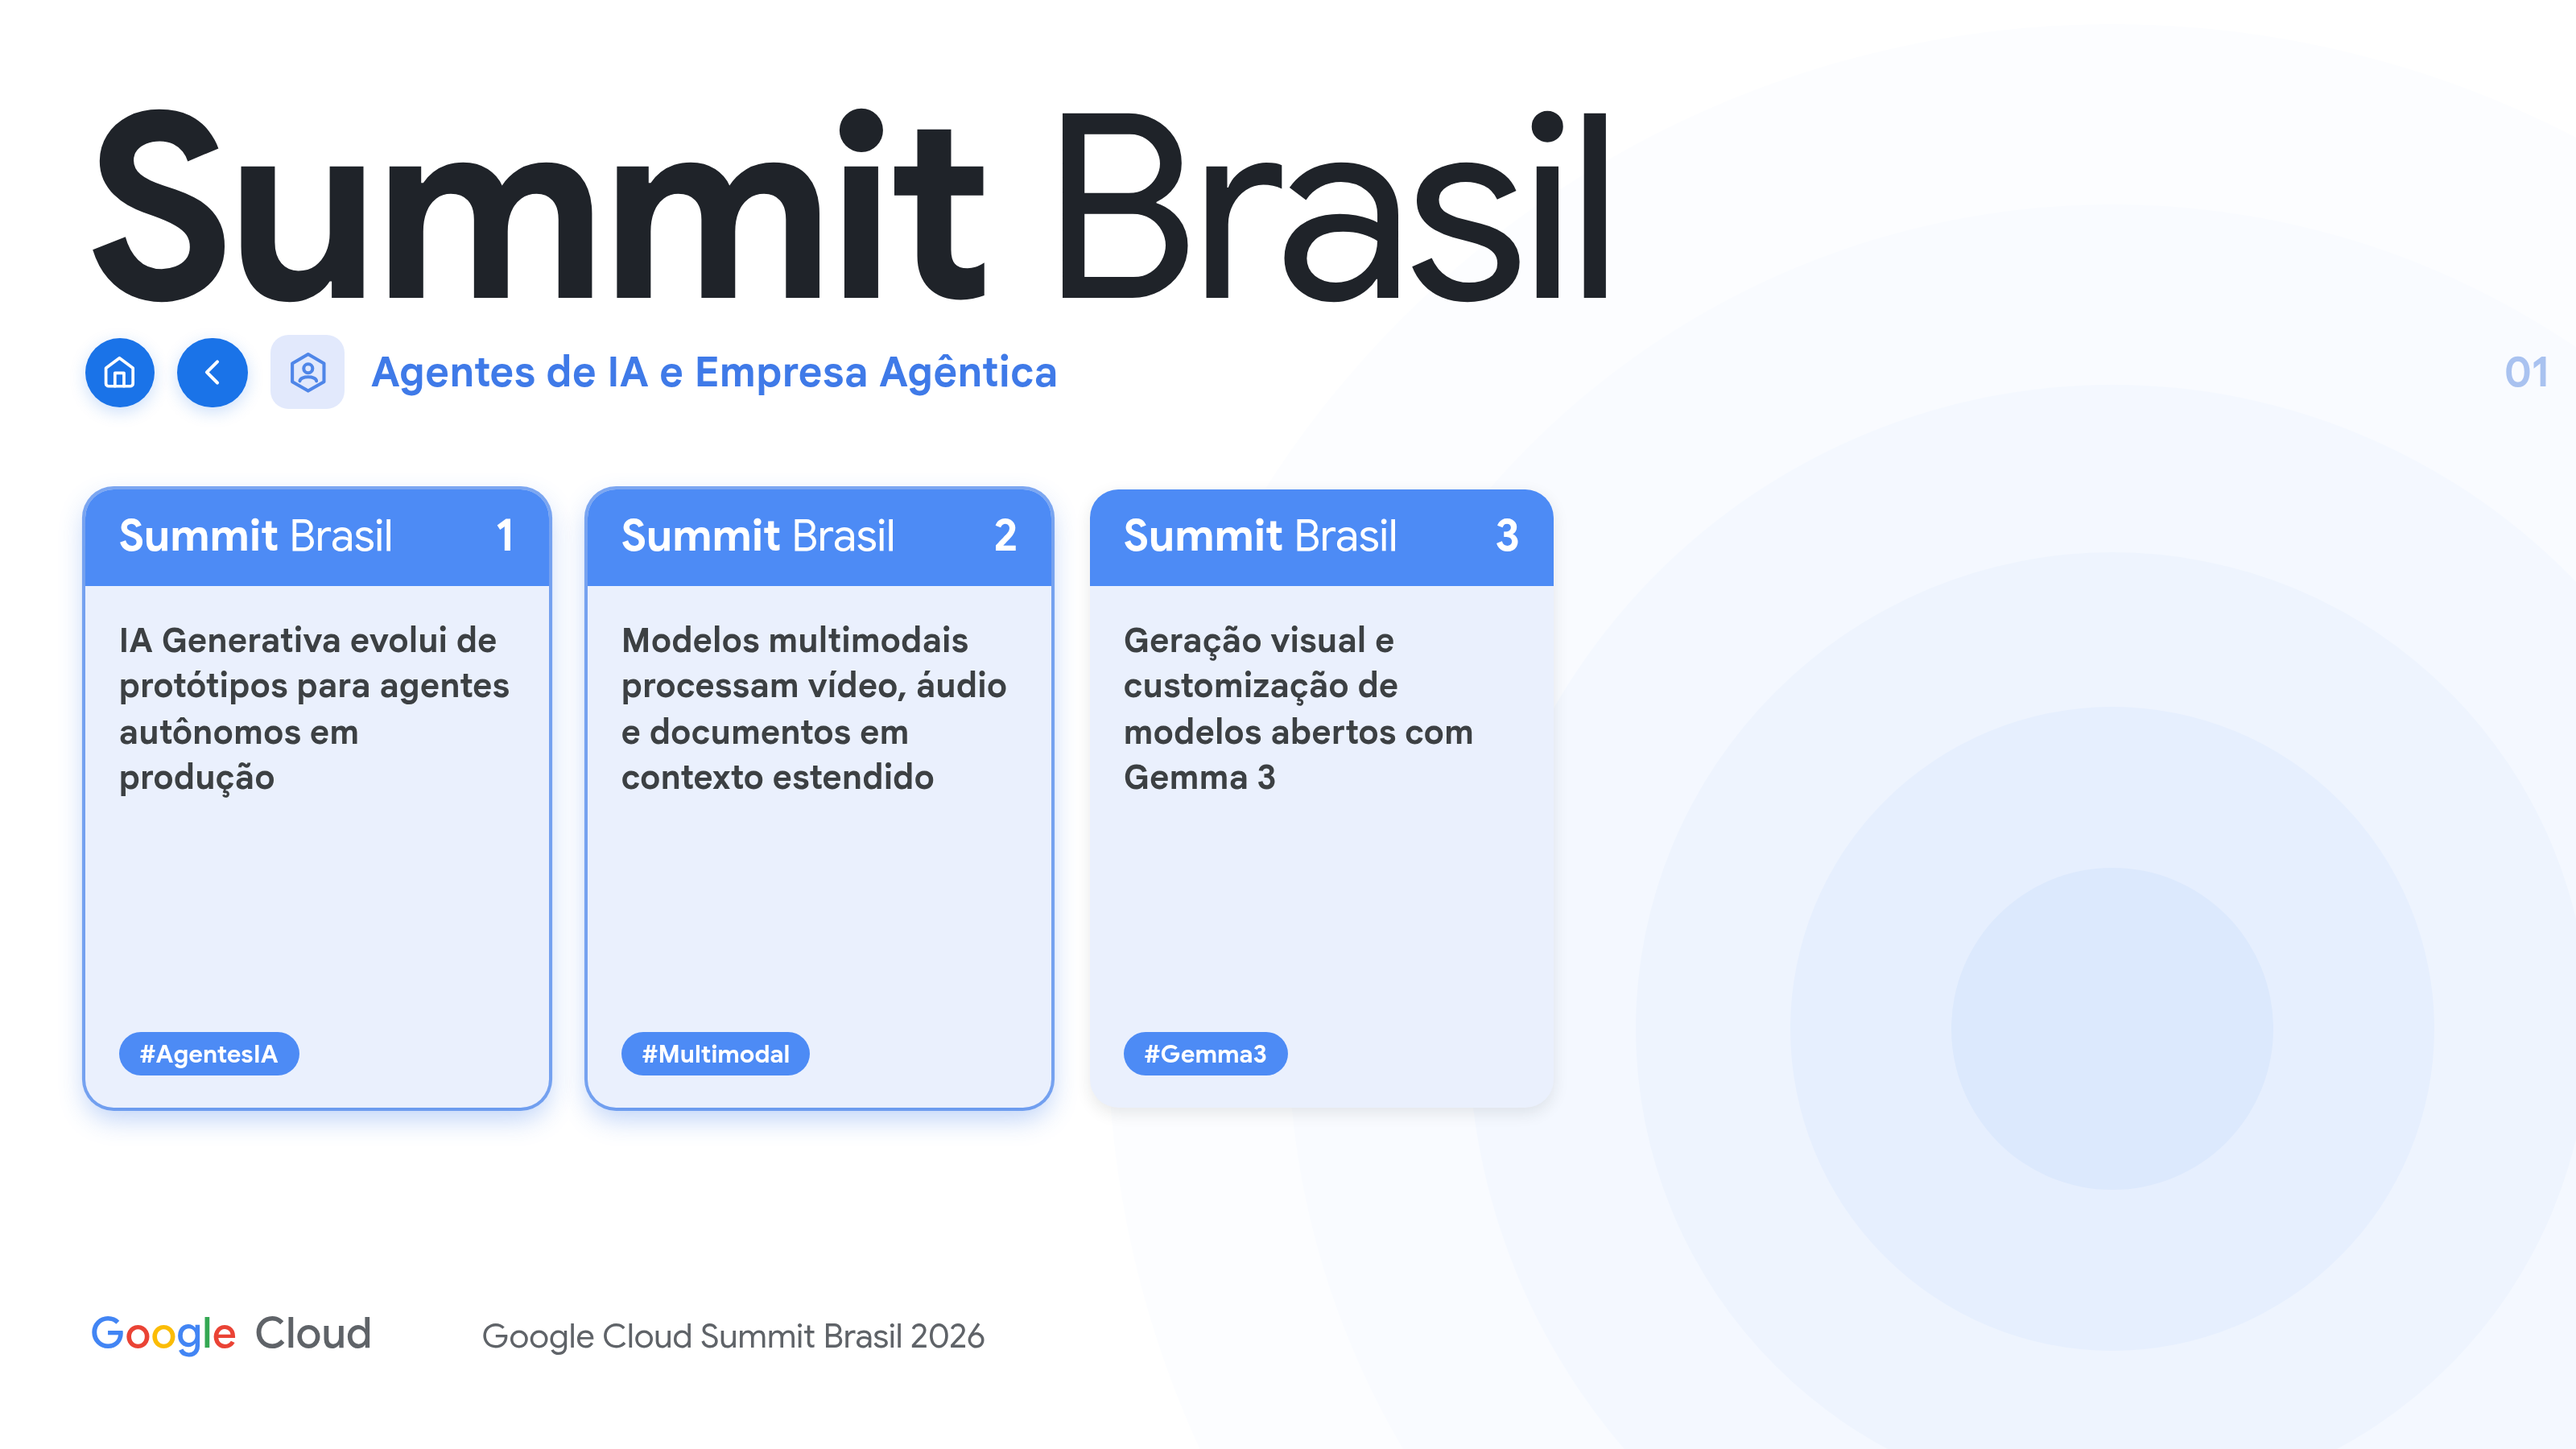
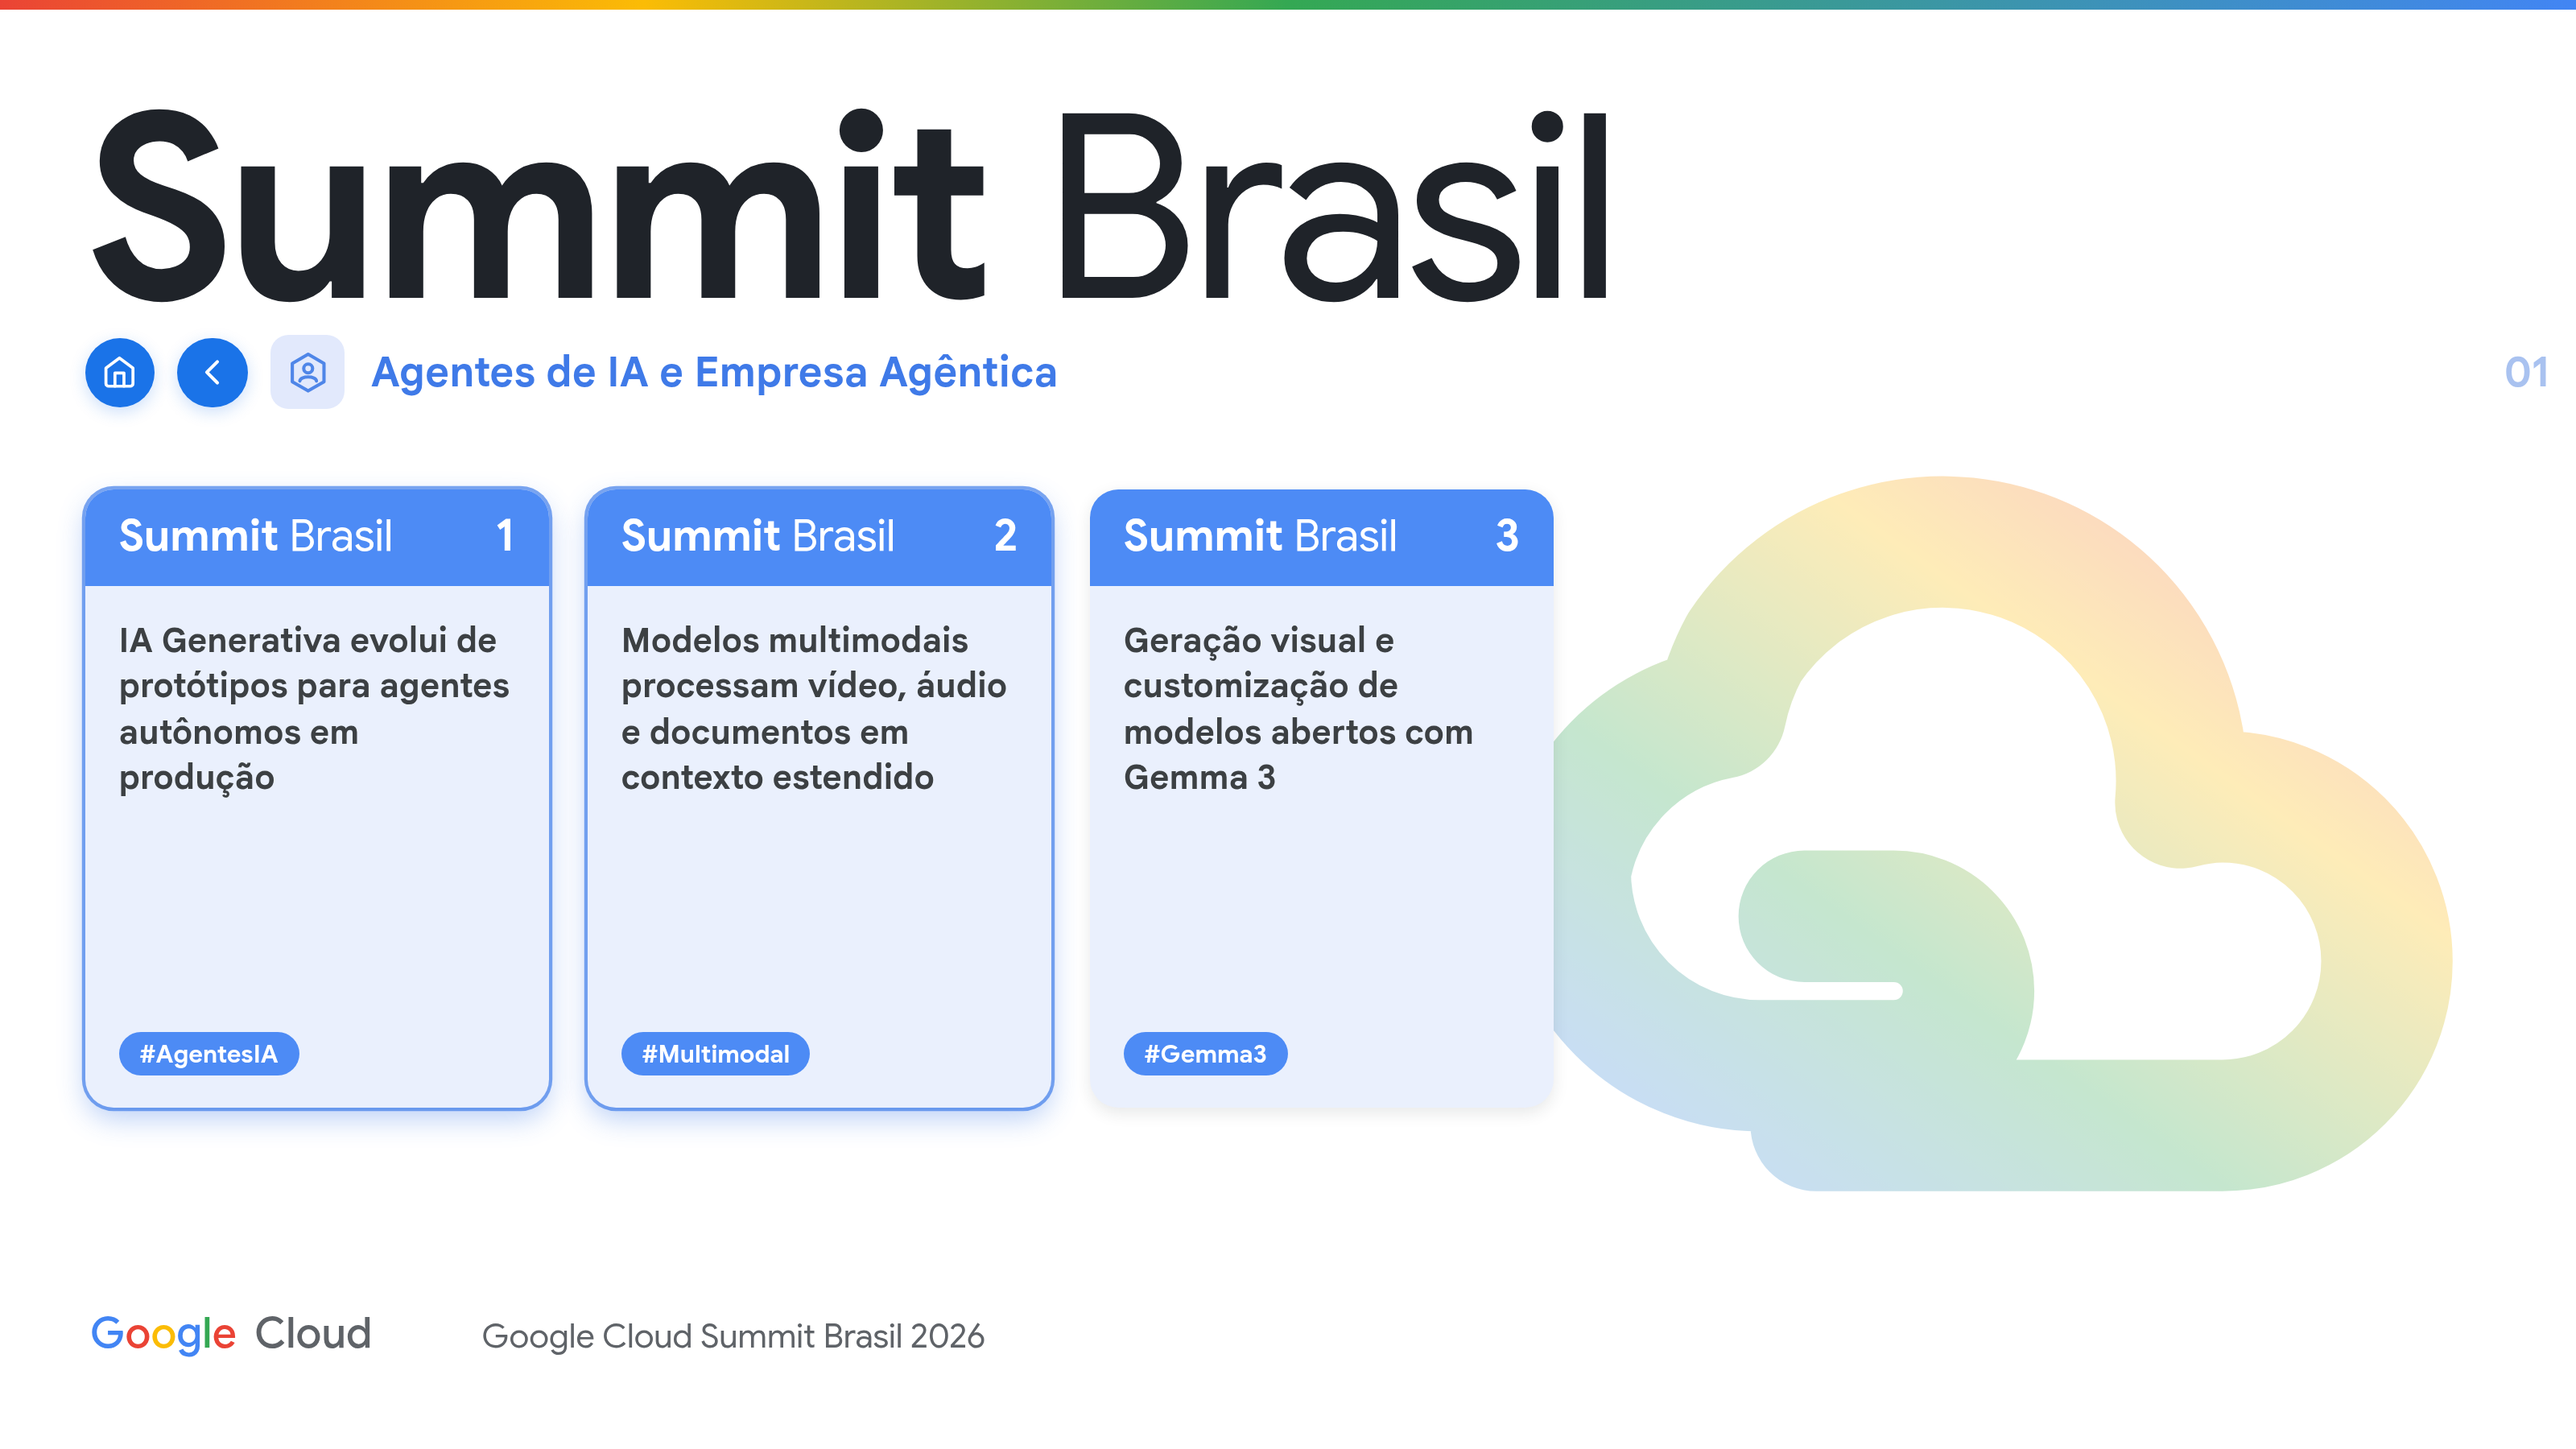
Replace legacy ripple graphics with official Google Cloud Super Cloud & Progress Bar brand elements
- Replaced legacy monochrome circle ripple elements with official Google Cloud Super Cloud graphic (iconic 4-color gradient curve) based on official presentation slide deck 1_x0NQfIj-oBvUtdikA3akBJUGtHXslgxFZ4VaHG6KmM.
- Added top Google Progress Bar accent line across the slide stage.
- Updated menu ordinal numbers to Google Blue action color.
- Re-rendered and updated desktop and mobile screenshots.

TAG=agy
CONV=0115c845-f4af-4da6-a951-9506ab856063

Changed region(s): [[0.5938, 0.3111, 0.9688, 0.9333], [0.0, 0.0, 1.0, 0.0311]]

diff --git a/css/cloud-style.css b/css/cloud-style.css
@@ -107,32 +107,43 @@ svg { display: block; }
    the ripple stays locked to the slide rather than to the window:
      x = 18% of stage width in from the right edge
      y = 71% of the way down the stage
-   Each circle is sized as a fraction of --s and pulled back by
-   translate(50%, -50%) so that shared point is its true centre.
+/* -----------------------------------------------------------------------------
+   3. BRAND FOUNDATIONS — Super Cloud Graphic & Progress Bar.
+   Official Google Cloud presentation visual identity elements.
    -------------------------------------------------------------------------- */
+.gc-progress-bar {
+  position: absolute;
+  top: 0;
+  left: 0;
+  right: 0;
+  height: 0.4cqw;
+  background: linear-gradient(90deg,
+    var(--gc-google-red) 0%,
+    var(--gc-google-yellow) 25%,
+    var(--gc-google-green) 50%,
+    var(--gc-google-blue) 100%
+  );
+  z-index: 25;
+}
+
+.gc-supercloud,
 .gc-ripple {
   position: absolute;
-  inset: 0;
+  right: -6cqw;
+  bottom: -6cqw;
+  width: 58cqw;
+  height: 58cqw;
   z-index: 0;
   pointer-events: none;
+  opacity: 0.95;
 }
 
-.gc-ripple > i {
-  position: absolute;
-  right: calc(var(--s) * 0.18);
-  top: calc(var(--top) + var(--h) * 0.71);
-  transform: translate(50%, -50%);
-  border-radius: 50%;
-  display: block;
+.gc-supercloud svg,
+.gc-ripple svg {
+  width: 100%;
+  height: 100%;
+  overflow: visible;
 }
-
-/* Size ramp. Each ring is ~0.78× the previous one. */
-.gc-ripple > i:nth-child(1) { width: calc(var(--s) * 0.780); height: calc(var(--s) * 0.780); background: var(--gc-ripple-01); }
-.gc-ripple > i:nth-child(2) { width: calc(var(--s) * 0.640); height: calc(var(--s) * 0.640); background: var(--gc-ripple-02); }
-.gc-ripple > i:nth-child(3) { width: calc(var(--s) * 0.500); height: calc(var(--s) * 0.500); background: var(--gc-ripple-03); }
-.gc-ripple > i:nth-child(4) { width: calc(var(--s) * 0.370); height: calc(var(--s) * 0.370); background: var(--gc-ripple-04); }
-.gc-ripple > i:nth-child(5) { width: calc(var(--s) * 0.250); height: calc(var(--s) * 0.250); background: var(--gc-ripple-05); }
-.gc-ripple > i:nth-child(6) { width: calc(var(--s) * 0.125); height: calc(var(--s) * 0.125); background: var(--gc-ripple-06); }
 
 /* -----------------------------------------------------------------------------
    4. WORDMARK
@@ -313,7 +324,7 @@ svg { display: block; }
   font-family: var(--gc-font-text);
   font-size: var(--gc-text-label);
   font-weight: 700;
-  color: var(--gc-blue-numeral);
+  color: var(--gc-blue-action);
 }
 
 /* -----------------------------------------------------------------------------
@@ -1272,10 +1283,25 @@ svg { display: block; }
    ========================================================================== */
 @media (max-width: 767px) {
 
+  .gc-progress-bar {
+    height: 1.2vw;
+  }
+
+  .gc-supercloud,
+  .gc-ripple {
+    position: absolute;
+    right: -12vw;
+    top: -5vw;
+    bottom: auto;
+    width: 90vw;
+    height: 90vw;
+    opacity: 0.22;
+  }
+
   .gc-cover {
     height: auto;
     min-height: 100%;
-    --top: -18vw;              /* pull the ripple up behind the header */
+    --top: -18vw;
   }
 
   .gc-stage {

diff --git a/templates/01-cover.html b/templates/01-cover.html
@@ -35,10 +35,20 @@
 <body>
 <div class="gc-cover">
 
-  <!-- Background ripple. Always six <i> elements, always first, always
-       pointer-events:none. Sizes and colours come from CSS. -->
-  <div class="gc-ripple" aria-hidden="true">
-    <i></i><i></i><i></i><i></i><i></i><i></i>
+  <div class="gc-progress-bar" aria-hidden="true"></div>
+
+  <div class="gc-supercloud" aria-hidden="true">
+    <svg viewBox="0 0 500 500" fill="none" xmlns="http://www.w3.org/2000/svg">
+      <defs>
+        <linearGradient id="gc-sc-grad" x1="100%" y1="0%" x2="0%" y2="100%">
+          <stop offset="0%" stop-color="#ea4335" />
+          <stop offset="30%" stop-color="#fbbc05" />
+          <stop offset="65%" stop-color="#34a853" />
+          <stop offset="100%" stop-color="#4285f4" />
+        </linearGradient>
+      </defs>
+      <path d="M 194 340 L 330 340 A 55 55 0 0 0 385 285 A 55 55 0 0 0 330 230 A 55 55 0 0 0 316 232 A 80 80 0 0 0 170 180 A 80 80 0 0 0 162 202 A 65 65 0 0 0 110 255 A 65 65 0 0 0 175 320 L 220 320 A 25 25 0 0 0 245 295 A 25 25 0 0 0 220 270 L 190 270" stroke="url(#gc-sc-grad)" stroke-width="44" stroke-linecap="round" stroke-linejoin="round" />
+    </svg>
   </div>
 
   <div class="gc-stage">

diff --git a/index.html b/index.html
@@ -37,8 +37,20 @@
 
 <div class="gc-cover">
 
-  <div class="gc-ripple" aria-hidden="true">
-    <i></i><i></i><i></i><i></i><i></i><i></i>
+  <div class="gc-progress-bar" aria-hidden="true"></div>
+
+  <div class="gc-supercloud" aria-hidden="true">
+    <svg viewBox="0 0 500 500" fill="none" xmlns="http://www.w3.org/2000/svg">
+      <defs>
+        <linearGradient id="gc-sc-grad" x1="100%" y1="0%" x2="0%" y2="100%">
+          <stop offset="0%" stop-color="#ea4335" />
+          <stop offset="30%" stop-color="#fbbc05" />
+          <stop offset="65%" stop-color="#34a853" />
+          <stop offset="100%" stop-color="#4285f4" />
+        </linearGradient>
+      </defs>
+      <path d="M 194 340 L 330 340 A 55 55 0 0 0 385 285 A 55 55 0 0 0 330 230 A 55 55 0 0 0 316 232 A 80 80 0 0 0 170 180 A 80 80 0 0 0 162 202 A 65 65 0 0 0 110 255 A 65 65 0 0 0 175 320 L 220 320 A 25 25 0 0 0 245 295 A 25 25 0 0 0 220 270 L 190 270" stroke="url(#gc-sc-grad)" stroke-width="44" stroke-linecap="round" stroke-linejoin="round" />
+    </svg>
   </div>
 
   <div class="gc-veil" id="veil" aria-hidden="true" hidden></div>

diff --git a/templates/03-cards.html b/templates/03-cards.html
@@ -41,8 +41,20 @@
 <body>
 <div class="gc-cover">
 
-  <div class="gc-ripple" aria-hidden="true">
-    <i></i><i></i><i></i><i></i><i></i><i></i>
+  <div class="gc-progress-bar" aria-hidden="true"></div>
+
+  <div class="gc-supercloud" aria-hidden="true">
+    <svg viewBox="0 0 500 500" fill="none" xmlns="http://www.w3.org/2000/svg">
+      <defs>
+        <linearGradient id="gc-sc-grad" x1="100%" y1="0%" x2="0%" y2="100%">
+          <stop offset="0%" stop-color="#ea4335" />
+          <stop offset="30%" stop-color="#fbbc05" />
+          <stop offset="65%" stop-color="#34a853" />
+          <stop offset="100%" stop-color="#4285f4" />
+        </linearGradient>
+      </defs>
+      <path d="M 194 340 L 330 340 A 55 55 0 0 0 385 285 A 55 55 0 0 0 330 230 A 55 55 0 0 0 316 232 A 80 80 0 0 0 170 180 A 80 80 0 0 0 162 202 A 65 65 0 0 0 110 255 A 65 65 0 0 0 175 320 L 220 320 A 25 25 0 0 0 245 295 A 25 25 0 0 0 220 270 L 190 270" stroke="url(#gc-sc-grad)" stroke-width="44" stroke-linecap="round" stroke-linejoin="round" />
+    </svg>
   </div>
 
   <!-- Calms the ripple behind dense content. -->

diff --git a/templates/05-components.html b/templates/05-components.html
@@ -25,8 +25,20 @@
 <body>
 <div class="gc-cover">
 
-  <div class="gc-ripple" aria-hidden="true">
-    <i></i><i></i><i></i><i></i><i></i><i></i>
+  <div class="gc-progress-bar" aria-hidden="true"></div>
+
+  <div class="gc-supercloud" aria-hidden="true">
+    <svg viewBox="0 0 500 500" fill="none" xmlns="http://www.w3.org/2000/svg">
+      <defs>
+        <linearGradient id="gc-sc-grad" x1="100%" y1="0%" x2="0%" y2="100%">
+          <stop offset="0%" stop-color="#ea4335" />
+          <stop offset="30%" stop-color="#fbbc05" />
+          <stop offset="65%" stop-color="#34a853" />
+          <stop offset="100%" stop-color="#4285f4" />
+        </linearGradient>
+      </defs>
+      <path d="M 194 340 L 330 340 A 55 55 0 0 0 385 285 A 55 55 0 0 0 330 230 A 55 55 0 0 0 316 232 A 80 80 0 0 0 170 180 A 80 80 0 0 0 162 202 A 65 65 0 0 0 110 255 A 65 65 0 0 0 175 320 L 220 320 A 25 25 0 0 0 245 295 A 25 25 0 0 0 220 270 L 190 270" stroke="url(#gc-sc-grad)" stroke-width="44" stroke-linecap="round" stroke-linejoin="round" />
+    </svg>
   </div>
 
   <div class="gc-veil" aria-hidden="true"></div>

diff --git a/templates/02-menu.html b/templates/02-menu.html
@@ -36,8 +36,20 @@
 <body>
 <div class="gc-cover">
 
-  <div class="gc-ripple" aria-hidden="true">
-    <i></i><i></i><i></i><i></i><i></i><i></i>
+  <div class="gc-progress-bar" aria-hidden="true"></div>
+
+  <div class="gc-supercloud" aria-hidden="true">
+    <svg viewBox="0 0 500 500" fill="none" xmlns="http://www.w3.org/2000/svg">
+      <defs>
+        <linearGradient id="gc-sc-grad" x1="100%" y1="0%" x2="0%" y2="100%">
+          <stop offset="0%" stop-color="#ea4335" />
+          <stop offset="30%" stop-color="#fbbc05" />
+          <stop offset="65%" stop-color="#34a853" />
+          <stop offset="100%" stop-color="#4285f4" />
+        </linearGradient>
+      </defs>
+      <path d="M 194 340 L 330 340 A 55 55 0 0 0 385 285 A 55 55 0 0 0 330 230 A 55 55 0 0 0 316 232 A 80 80 0 0 0 170 180 A 80 80 0 0 0 162 202 A 65 65 0 0 0 110 255 A 65 65 0 0 0 175 320 L 220 320 A 25 25 0 0 0 245 295 A 25 25 0 0 0 220 270 L 190 270" stroke="url(#gc-sc-grad)" stroke-width="44" stroke-linecap="round" stroke-linejoin="round" />
+    </svg>
   </div>
 
   <div class="gc-stage">

diff --git a/templates/04-article.html b/templates/04-article.html
@@ -41,8 +41,20 @@
 <body>
 <div class="gc-cover">
 
-  <div class="gc-ripple" aria-hidden="true">
-    <i></i><i></i><i></i><i></i><i></i><i></i>
+  <div class="gc-progress-bar" aria-hidden="true"></div>
+
+  <div class="gc-supercloud" aria-hidden="true">
+    <svg viewBox="0 0 500 500" fill="none" xmlns="http://www.w3.org/2000/svg">
+      <defs>
+        <linearGradient id="gc-sc-grad" x1="100%" y1="0%" x2="0%" y2="100%">
+          <stop offset="0%" stop-color="#ea4335" />
+          <stop offset="30%" stop-color="#fbbc05" />
+          <stop offset="65%" stop-color="#34a853" />
+          <stop offset="100%" stop-color="#4285f4" />
+        </linearGradient>
+      </defs>
+      <path d="M 194 340 L 330 340 A 55 55 0 0 0 385 285 A 55 55 0 0 0 330 230 A 55 55 0 0 0 316 232 A 80 80 0 0 0 170 180 A 80 80 0 0 0 162 202 A 65 65 0 0 0 110 255 A 65 65 0 0 0 175 320 L 220 320 A 25 25 0 0 0 245 295 A 25 25 0 0 0 220 270 L 190 270" stroke="url(#gc-sc-grad)" stroke-width="44" stroke-linecap="round" stroke-linejoin="round" />
+    </svg>
   </div>
 
   <div class="gc-stage">
